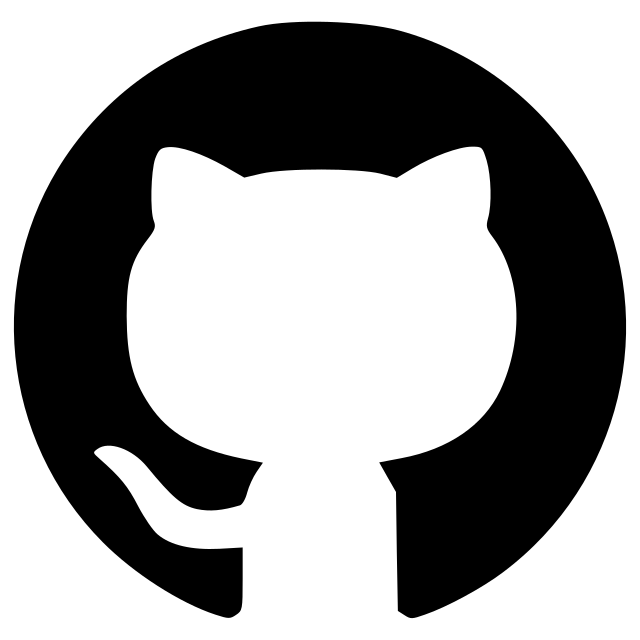
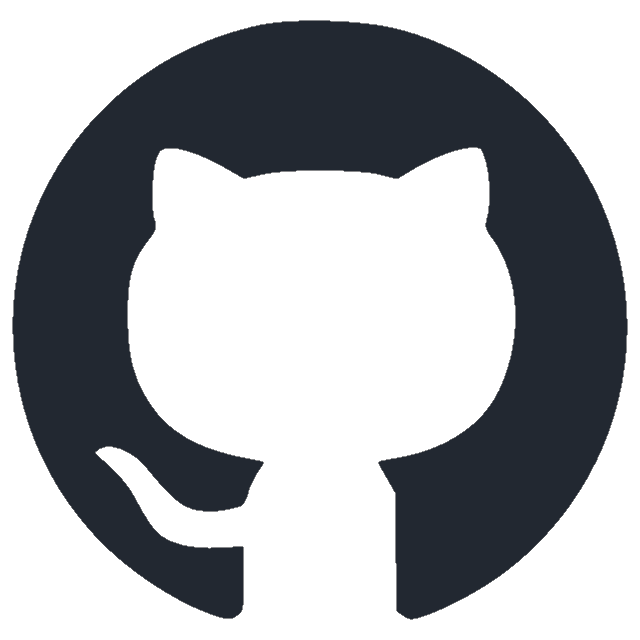
Update

diff --git a/styles.css b/styles.css
@@ -256,6 +256,7 @@ body {
 }
 
 #linkedin {
+    content:url("linkedin-dark.png");
     height: 15vh;
     margin-left: 50%;
     transform: translate(-50%, 0%);
@@ -263,6 +264,7 @@ body {
 }
 
 #github {
+    content:url("github.png");
     margin-top: 5vh;
     height: 15vh;
     margin-left: 50%;
@@ -271,10 +273,74 @@ body {
 }
 
 #gmail {
+    content:url("gmail.png");
     margin-top: 5vh;
     height: 15vh;
     margin-left: 50%;
     transform: translate(-50%, 0%);
+    filter: drop-shadow(0px 0px 10px var(--color-highlight-half));
+}
+
+#skillsGrid {
+    display: grid;
+    grid-template-columns: 60% 40%;
+}
+
+#skillsLeft {
+    grid-column: 1 / span 1;
+}
+
+#skillsRight {
+    margin-top: 5%;
+    grid-column: 2 / span 1;
+    display: grid;
+    grid-template-columns: 50% 50%;
+}
+
+#skills1 {
+    grid-column: 1 / span 1;
+}
+
+#skills2 {
+    grid-column: 2 / span 1;
+}
+
+#skill1 {
+    content: url("c.png");
+    margin-top: 25%;
+    margin-bottom: 20%;
+    height: 20vh;
+    margin-left: 50%;
+    transform: translate(-50%, -50%);
+    filter: drop-shadow(0px 0px 10px var(--color-highlight-half));
+}
+
+#skill2 {
+    content: url("c++.png");
+    margin-top: 20%;
+    height: 20vh;
+    margin-left: 50%;
+    transform: translate(-50%, -50%);
+    filter: drop-shadow(0px 0px 10px var(--color-highlight-half));
+}
+
+#skill3 {
+    content: url("java.png");
+    margin-top: 25%;
+    margin-bottom: 20%;
+    height: 20vh;
+    margin-left: 50%;
+    transform: translate(-50%, -50%);
+    filter: drop-shadow(0px 0px 10px var(--color-highlight-half));
+}
+
+#skill4 {
+    position: relative;
+    content: url("python.png");
+    margin-top: 20%;
+    height: 20vh;
+    margin-left: 50%;
+    transform: translate(-50%, -50%);
     filter: drop-shadow(0px 0px 10px var(--color-highlight-half));
 }
 
@@ -485,6 +551,12 @@ footer {
         --color-dark:#222831;
         --color-dark-alpha: #22283100;
     }
+    #github {
+        content:url("github.png");
+    }
+    #linkedin {
+        content:url("linkedin-dark.png");
+    }
 }
 @media (prefers-color-scheme: dark) {
     :root {
@@ -494,6 +566,12 @@ footer {
         --color-highlight-alpha: #FF5F0000;
         --color-light:#222831;
         --color-light-alpha: #22283100;
+    }
+    #github {
+        content:url("github-light.png");
+    }
+    #linkedin {
+        content:url("linkedin.png");
     }
 }
 

diff --git a/index.html b/index.html
@@ -28,23 +28,38 @@
   <div id="aboutGrid">
     <div id="aboutLeft">A fourth year Computer Engineering Major at MSOE, looking to purse a Masters in Machine Learning with a strong interest in software development, hardware design, and everything in between.</div>
     <div id="aboutRight">
-      <a href="https://www.linkedin.com/in/christian-orozco-vargas/" target="_blank"><img src="linkedin.png" id="linkedin"></a>
-      <a href="https://github.com/orozcoc78" target="_blank"><img src="github-light.png" id="github"></a>
-      <a href="mailto:orozcochristian2003@gmail.com?subject=Let's connect!&body=How shall we meet?" target="_blank"><img src="gmail.png" id="gmail"></a>
+      <a href="https://www.linkedin.com/in/christian-orozco-vargas/" target="_blank"><img id="linkedin"></a>
+      <a href="https://github.com/orozcoc78" target="_blank"><img id="github"></a>
+      <a href="mailto:orozcochristian2003@gmail.com?subject=Let's connect!&body=How shall we meet?" target="_blank"><img id="gmail"></a>
     </div>
   </div>
 </section>
 
 <section id="skills">
   <h1 class="subHeader">..\users\data> get <span class="highlight">skills</span></h1>
-    <ul>
+  <div id="skillsGrid">
+    <div id="skillsLeft">
+      <ul>
         <li>Programming Languages: C, C++, Java, Python</li>
         <li>Web Development: HTML, CSS, JavaScript</li>
         <li>Embedded Systems</li>
         <li>Computer Networks</li>
         <li>Database Management</li>
         <!-- Add more skills as needed -->
-    </ul>
+      </ul>
+    </div>
+    <div id="skillsRight">
+      <div id="skills1">
+        <img id="skill1">
+        <img id="skill2">
+      </div>
+      <div id="skills2">
+        <img id="skill3">
+        <img id="skill4">
+      </div>
+    </div>
+  </div>
+    
 </section>
 
 <section>
